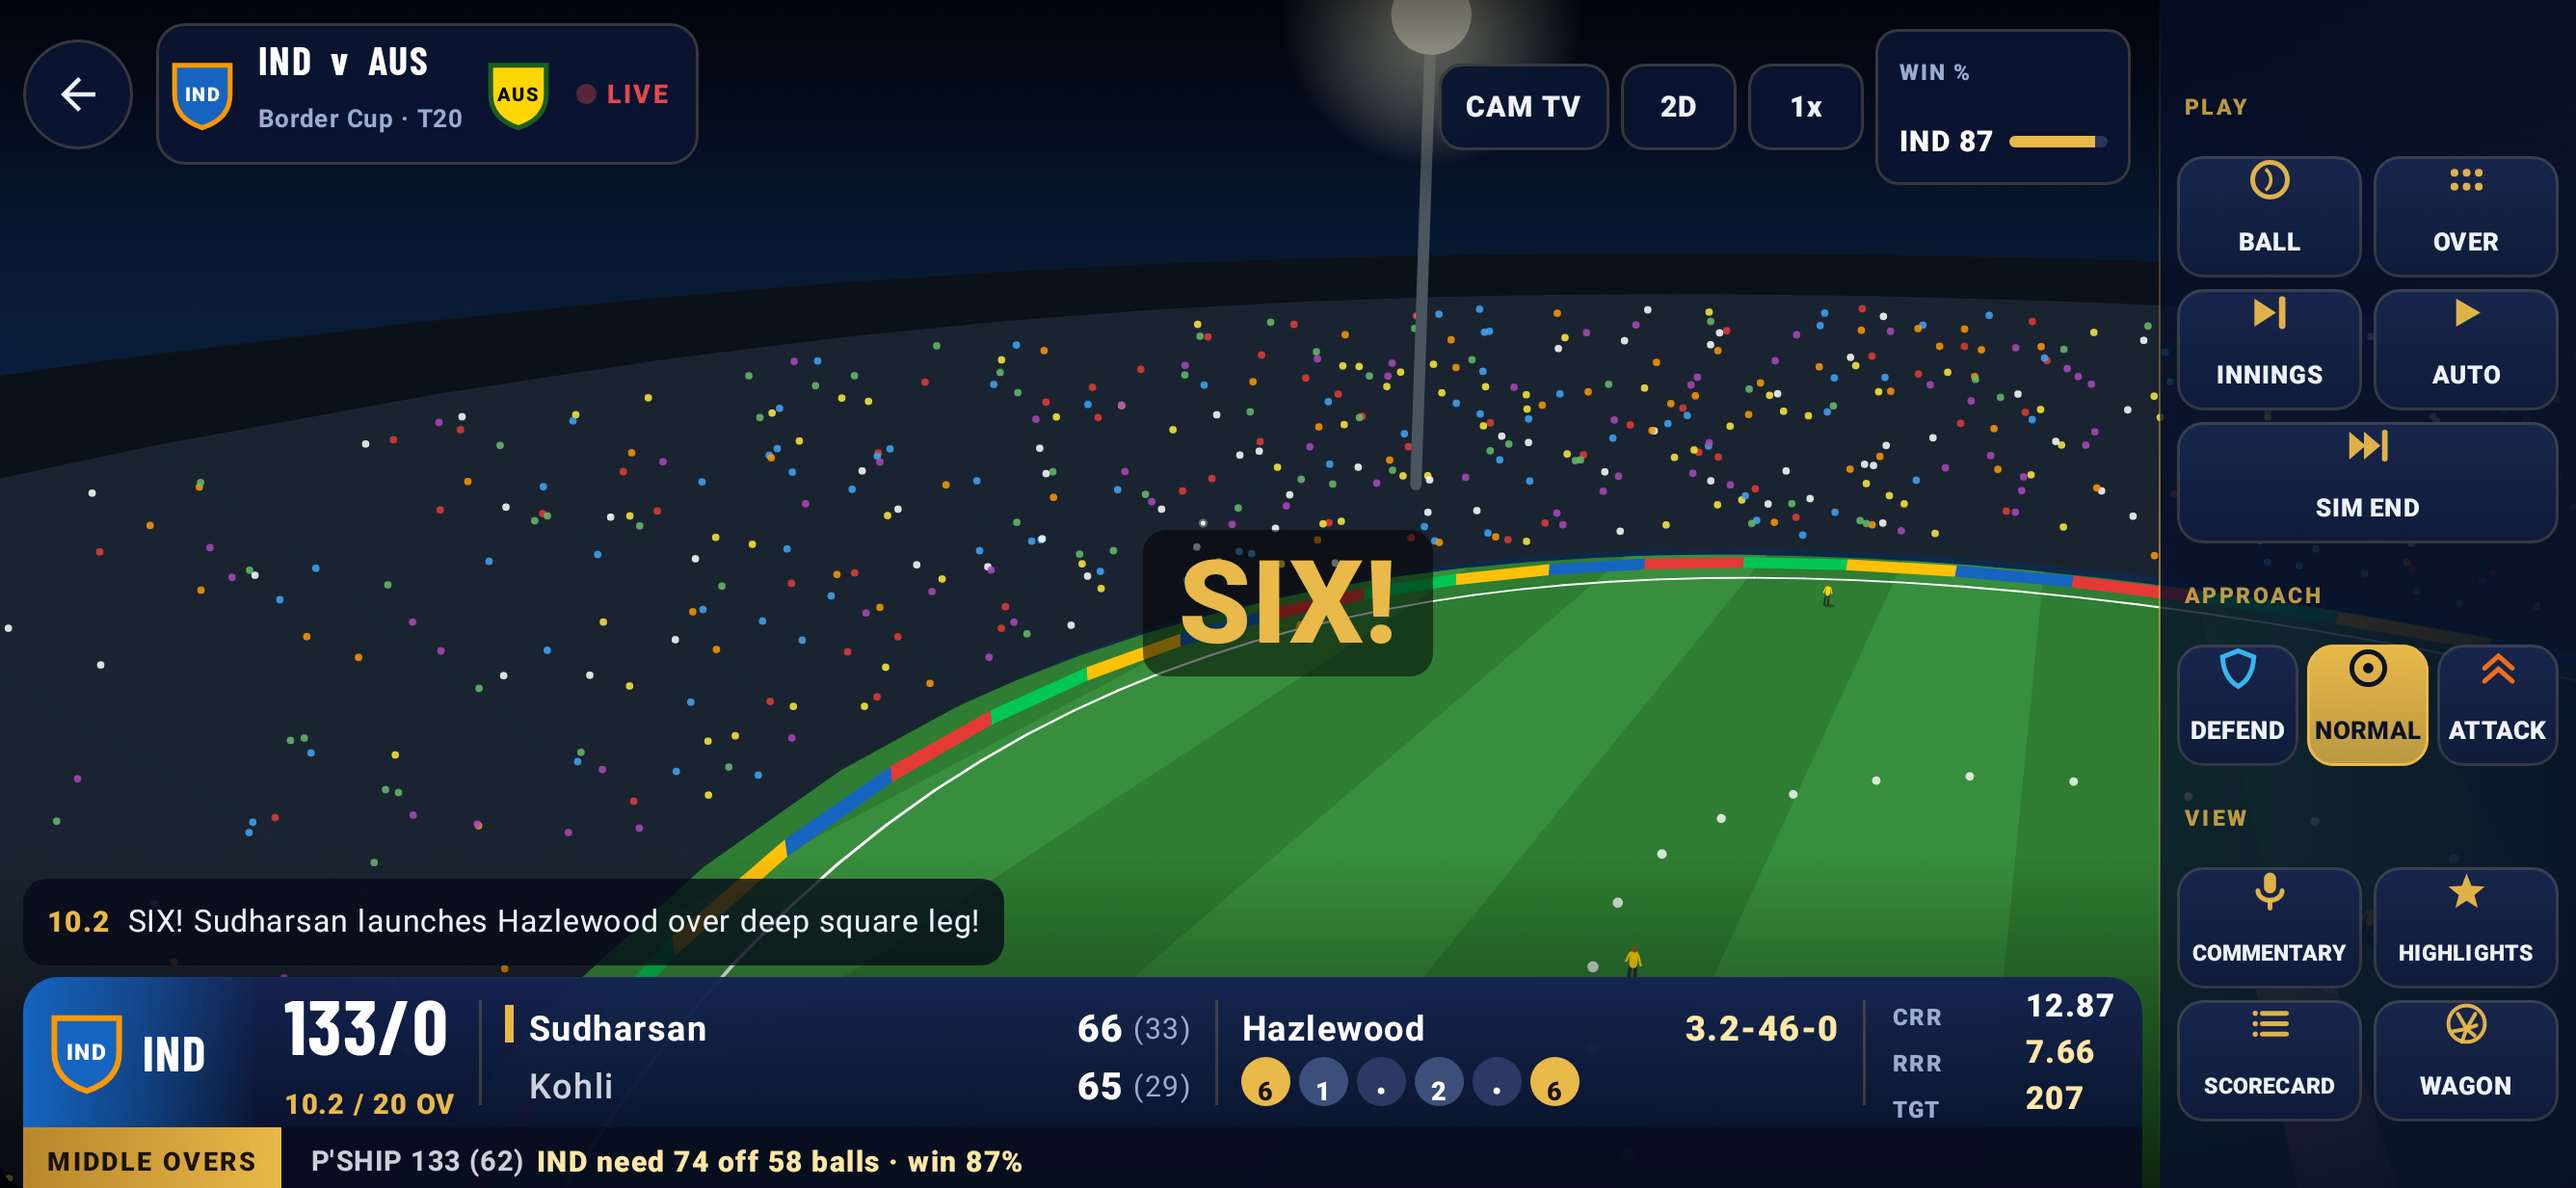
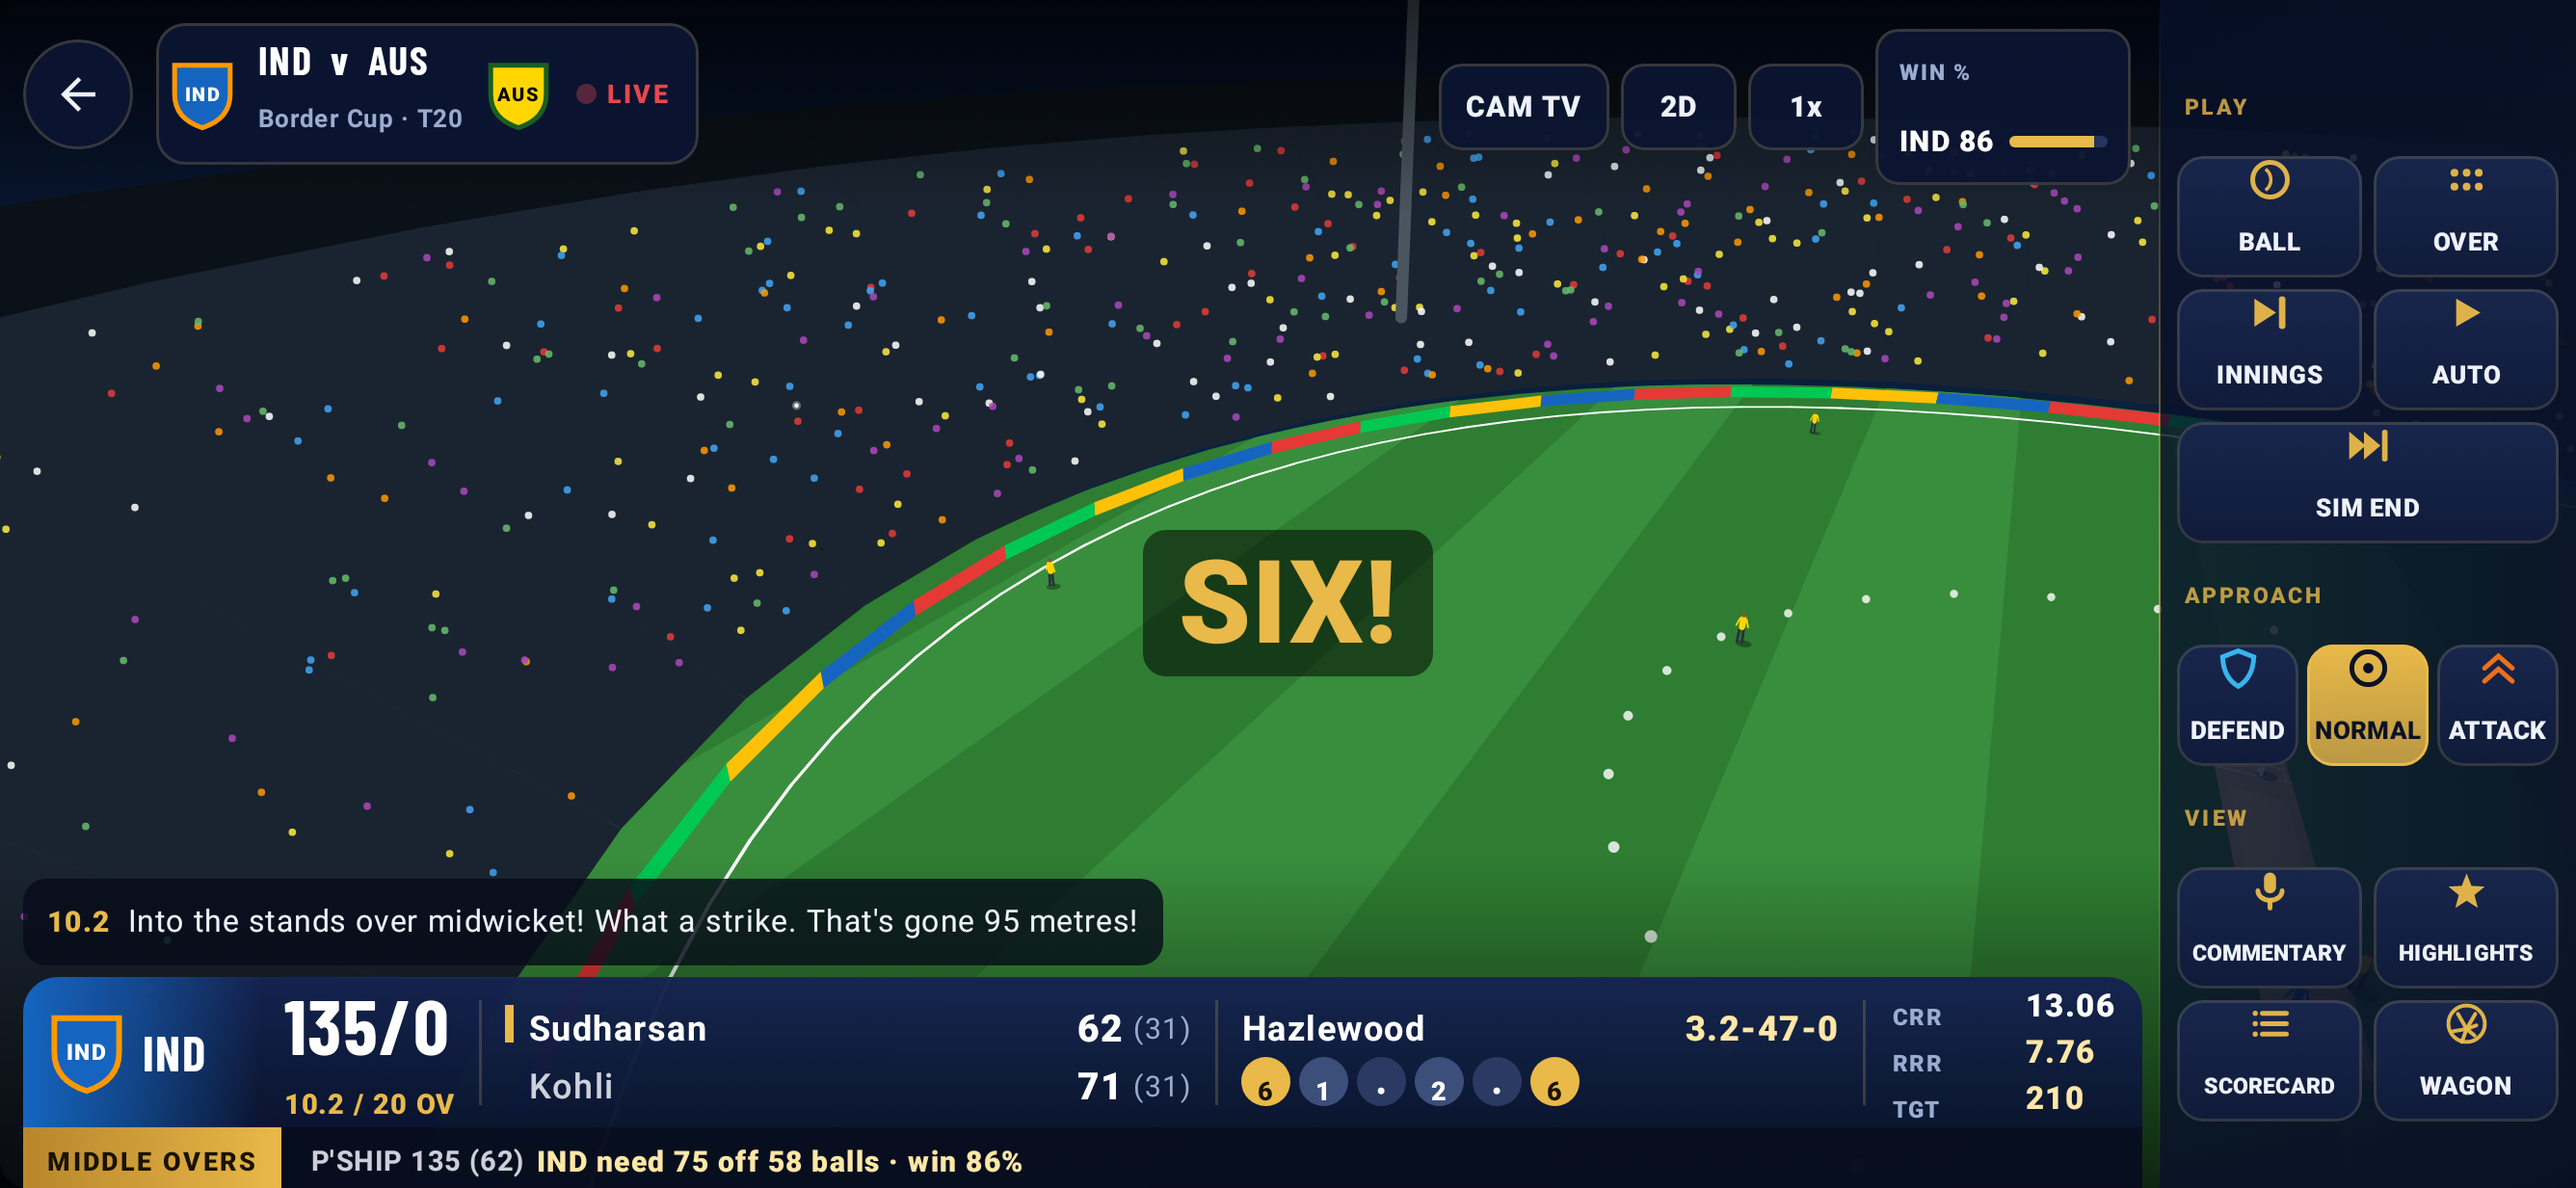
Phase G: small-phone chip/bench header polish, UiFormatTest, previews 95/103-106, OVERHAUL_PLAN Phase G

diff --git a/app/src/main/java/com/cricketcoach/manager/ui/screens/MatchCentre.kt b/app/src/main/java/com/cricketcoach/manager/ui/screens/MatchCentre.kt
@@ -369,8 +369,8 @@ private fun SheetRow(s: CareerSave, comp: Competition, c: Club, p: GPlayer, idx:
                 fun seg(s: String, c: Color, w: FontWeight = FontWeight.Bold) { pushStyle(androidx.compose.ui.text.SpanStyle(color = c, fontWeight = w)); append(s); pop() }
                 seg(roleShort(p.role), roleColor(p.role), FontWeight.Black)
                 seg(" ${p.overall()}", C.Text); seg(" · ", C.Sub)
-                seg("FIT ${p.fitness}", fc); seg(" · ", C.Sub)
-                seg("FORM $sym${p.form}", col)
+                seg("$sym${p.form}", col); seg(" · ", C.Sub)      // form first: the coloured arrow is what selection hinges on
+                seg("FIT ${p.fitness}", fc)
             }, fontSize = 8.5.sp, maxLines = 1, softWrap = false, overflow = TextOverflow.Clip)
             Text(statLine(comp, p), color = C.Sub, fontSize = 8.sp, maxLines = 1, overflow = TextOverflow.Ellipsis)
         }
@@ -410,7 +410,8 @@ private fun TeamSheetTab(vm: GameVM, s: CareerSave, comp: Competition, c: Club, 
         Spacer(Modifier.width(8.dp))
         Column(Modifier.weight(1f).fillMaxHeight()) {
             Row(verticalAlignment = Alignment.CenterVertically, modifier = Modifier.height(34.dp)) {
-                Text(if (pool != null) "BENCH · REGISTERED ${bench.size}" else "BENCH ${bench.size}", color = C.Gold, fontSize = 11.sp, fontWeight = FontWeight.Black, letterSpacing = 1.sp, modifier = Modifier.weight(1f))
+                Text(if (pool != null) "BENCH · REG ${bench.size}" else "BENCH ${bench.size}", color = C.Gold, fontSize = 11.sp, fontWeight = FontWeight.Black, letterSpacing = 1.sp, modifier = Modifier.weight(1f),
+                    maxLines = 1, softWrap = false, overflow = TextOverflow.Ellipsis)
                 if (comp.allowImpact) Text("IMPACT: ${s.players[c.impact]?.short() ?: "none"}", color = C.Sub, fontSize = 9.sp)
             }
             LazyColumn(Modifier.fillMaxSize()) {

diff --git a/app/src/test/java/com/cricketcoach/manager/UiFormatTest.kt b/app/src/test/java/com/cricketcoach/manager/UiFormatTest.kt
@@ -1,0 +1,16 @@
+package com.cricketcoach.manager
+
+import com.cricketcoach.manager.ui.screens.avgPart
+import org.junit.Assert.assertEquals
+import org.junit.Test
+
+/** Phase G: batting averages are not shown on tiny samples (177 runs, 1 dismissal is not "@177.0"). */
+class UiFormatTest {
+    @Test fun averagesNeedThreeDismissals() {
+        assertEquals("", avgPart(0, 0, 0))
+        assertEquals(" (2 n.o.)", avgPart(88, 2, 2))
+        assertEquals(" · 1 out", avgPart(177, 4, 3))
+        assertEquals(" · 2 out", avgPart(120, 3, 1))
+        assertEquals(" @38.0", avgPart(114, 4, 1))
+    }
+}

diff --git a/docs/OVERHAUL_PLAN.md b/docs/OVERHAUL_PLAN.md
@@ -46,9 +46,9 @@
 | B | Auction premium redesign | ✅ build-13 (2.5.0-alpha2): broadcast stage, dossier + career stats, price rail, team panels, history dialog, retention board, auction report |
 | C | Per-player 3D body model + kit + animations | ✅ 2.5.0-alpha3: 3 body builds (slim / athletic / heavy, 2 LODs), height scaling, 6 skin tones, 6 hair styles x 6 colours, 5 facial-hair options, rigid shirt-number digits on the back, team kit (jersey, trim, trousers, cap/helmet, team-tinted pads, gloves, shoes; whites for red-ball). `render3d/Appearance.kt`: ~118 curated real players get approximate public style descriptors (no scans, no likeness assets), everyone else a deterministic fictional look. Anti-clipping pass in the asset pipeline (IK hip raise + residual lift, per-clip lowest point exported as `ClipData.GROUND_MIN` and unit-tested); actor separation 0.6 m in DeliveryPlan. Profile: 3D model panel with animation picker (Idle, Batting, Pace, Spin, Running, Fielding, Catching, Throwing, Keeping, Celebrate), drag-to-rotate Filament viewer, 2D twin on Low graphics. Phase B fixes: SIMULATE always opens the calendar first, DOBs, SIM ALL bids for the user + accelerated round, compact pips. |
 | D | Stumpstagram (social rename + player accounts) | ✅ 2.5.0-alpha4: CricGram renamed Stumpstagram (nav, menu, titles). `game/Stumps.kt`: every one of the 901 real players has an account (unique @username, photo/initials avatar, bio, followers, following, posts, verified badge); fictional players get small never-verified accounts. Followers come from a popularity model (caps, runs, wickets, 100s, 5-fors, country fan base, IPL contract) and are always labelled **est.** with a note that they are in-game estimates, not verified data. Auto posts by the players themselves for win, loss, 50, 100, five-for, hat-trick (from ball events), auction signing, transfer / free signing, trophy and career milestones; likes, comment counts and follower gain scale with performance and popularity. Follow / unfollow, Following feed, Players directory with search + filters, player profile (`Screen.SocialProfile`) reachable from posts, the directory and the player profile. Offline feed + Supabase online feed kept. Tests: StumpsTest (5); CI build-20, 79/79 green. |
-| E | Match Centre redesign + mandatory tournament squad selection | planned |
-| F | True fullscreen landscape match + TV scoreboard | planned |
-| G | Integration, previews and testing | planned |
+| E | Match Centre redesign + mandatory tournament squad selection | ✅ build-26 (2.5.0-alpha5) |
+| F | True fullscreen landscape match + TV scoreboard | ✅ build-34 (2.5.0-alpha6) |
+| G | Integration, previews and testing | ✅ 2.5.0-beta1 (vc17) - see Phase G below |
 
 ## 5. Path to "AAA" realism (honest scope)
 Procedurally generated humans cannot match motion-captured, artist-sculpted, licensed models like those in console cricket games. The engine is ready for them: drop artist glTF files into `assets/models/` with the same joint names and clip names, and the game uses them. Recommended next steps if a budget exists:
@@ -73,3 +73,27 @@ Procedurally generated humans cannot match motion-captured, artist-sculpted, lic
 - LiveBroadcastUiTest (3 Compose UI tests on Robolectric) taps every rail control and checks the engine state.
 - Previews 95-102 (incl. 740x360 small phone).
 - Leftovers: no real-device GPU test; Robolectric previews use the legacy 2D-projected stadium (Filament 3D only on device).
+
+## Phase G - integration, calibration, leftovers (2.5.0-beta1, vc17)
+- **Score calibration** (`game/MatchSim.kt`): skill gap saturates (`DIFF_CAP*tanh`), domestic games re-centre the bat-v-ball gap on the
+  international level (`levelAdj`, `LEVEL_F`), first-class base wicket/dot rates tuned (`FC_WK`, `FC_DOT`). Tuned with the pure-JVM
+  harness `tools/simharness` (build.sh / run.sh, ~5 s per 1,000 matches). 1st-innings averages (N=200 / 66 for multi-day):
+
+  | Format | Before | After | Target |
+  |---|---|---|---|
+  | Intl T20 | 162 (max 313) | 168 (max 258) | 160-175 |
+  | IPL | 195 (300+ 6%) | 195 (max 273, 300+ 0%) | 180-195 |
+  | SMAT | 192 | 181 | 170-195 |
+  | Intl ODI | 253 (350+ 18%, max 442) | 263 (350+ 8%) | 260-290 |
+  | VHT | 336 (max 608) | 284 (max 410) | 270-295 |
+  | Test | 295 | 346 (draw 16%) | 300-350 |
+  | Ranji | 431 (max 923, draw 70%) | 329 (draw 48%) | 300-360 |
+- `CalibrationTest` (7 tests) guards every format band; EngineTest still sees India beat Zimbabwe 48/60.
+- **Stumpstagram**: posts carry `matchKey`; one post per player per match (fan CENTURY/FIVE-FOR cards fold into the player's own post with the
+  poster card), re-entry safe; "For You" uses log-engagement + recency + diversity penalty (`Stumps.forYou`) so no single superstar dominates.
+- **Match Centre**: tiny-sample averages no longer show "@177.0" (`avgPart`: n.o. / "1 out" until 3 dismissals); Batting Order tab shows this
+  comp -> real format record -> career (no more "0 career runs"); bench/XI chip row is one annotated line (FORM never clipped).
+- **Registration**: calendar banner + sidebar "Register Squad" entry (starred while pending); calendar jumps stop at `Screen.SquadRegistration`
+  instead of silently auto-registering (Sim-to-season-end still auto-registers).
+- **Camera**: 2D broadcast follow camera keeps its aim inside the rope and low (sixes no longer tilt into the sky / floodlights).
+- Previews 103-106. Remaining: no real-device GPU test from the sandbox; `bowl_spin` keeps a 1.85 cm residual body lift baked into the GLB.
